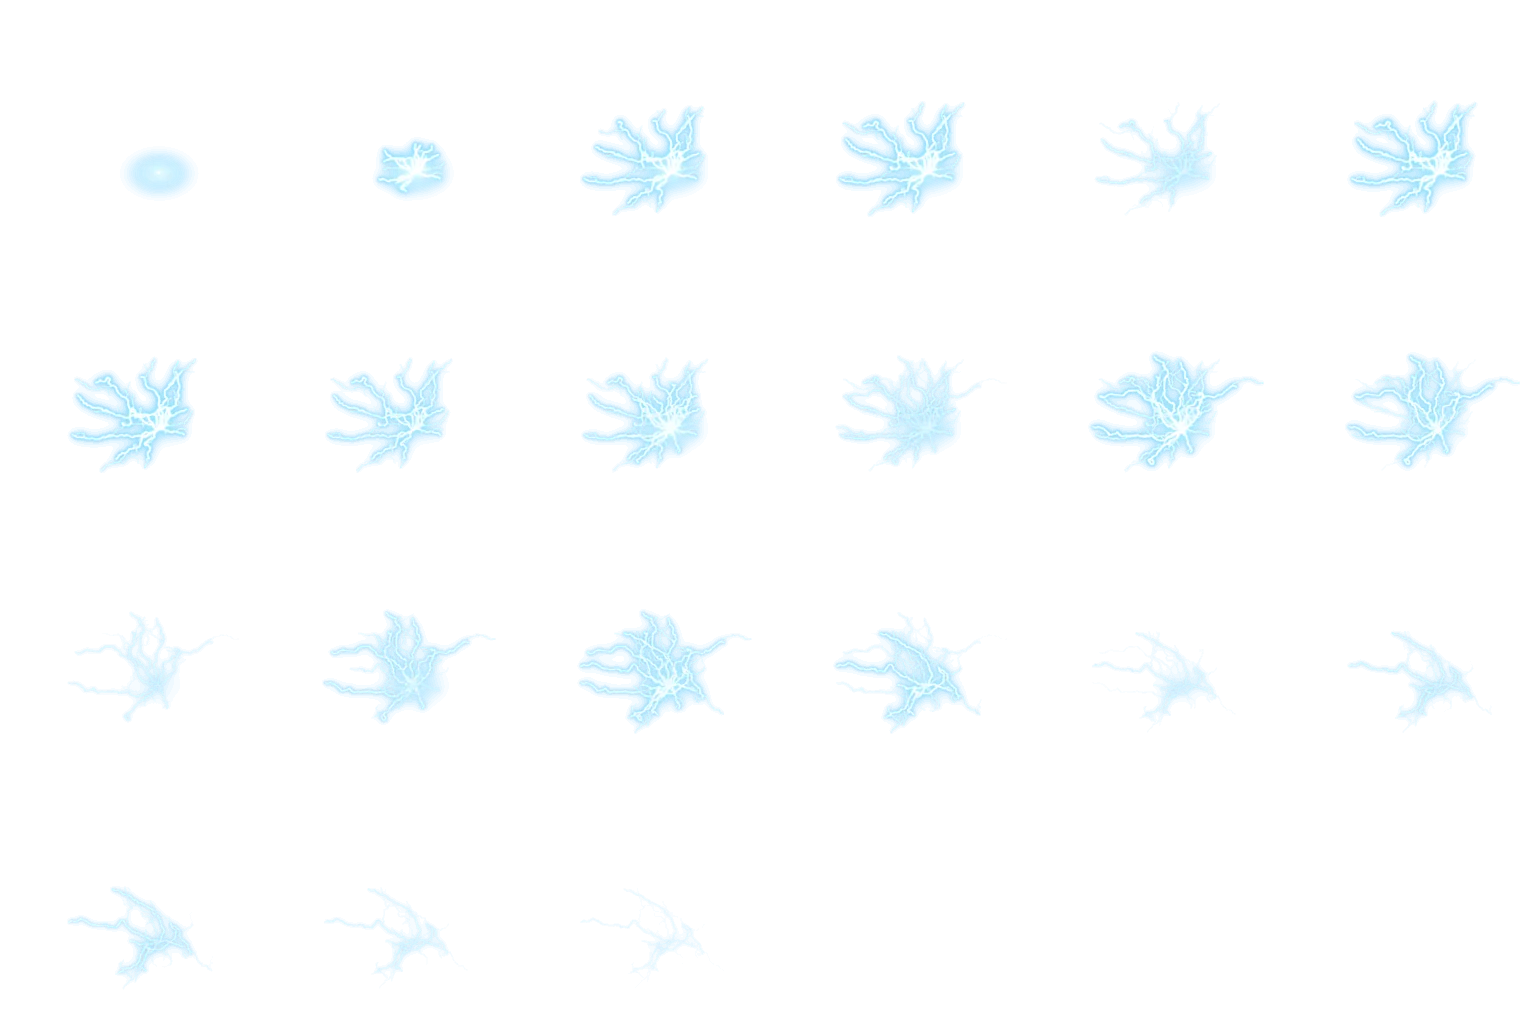
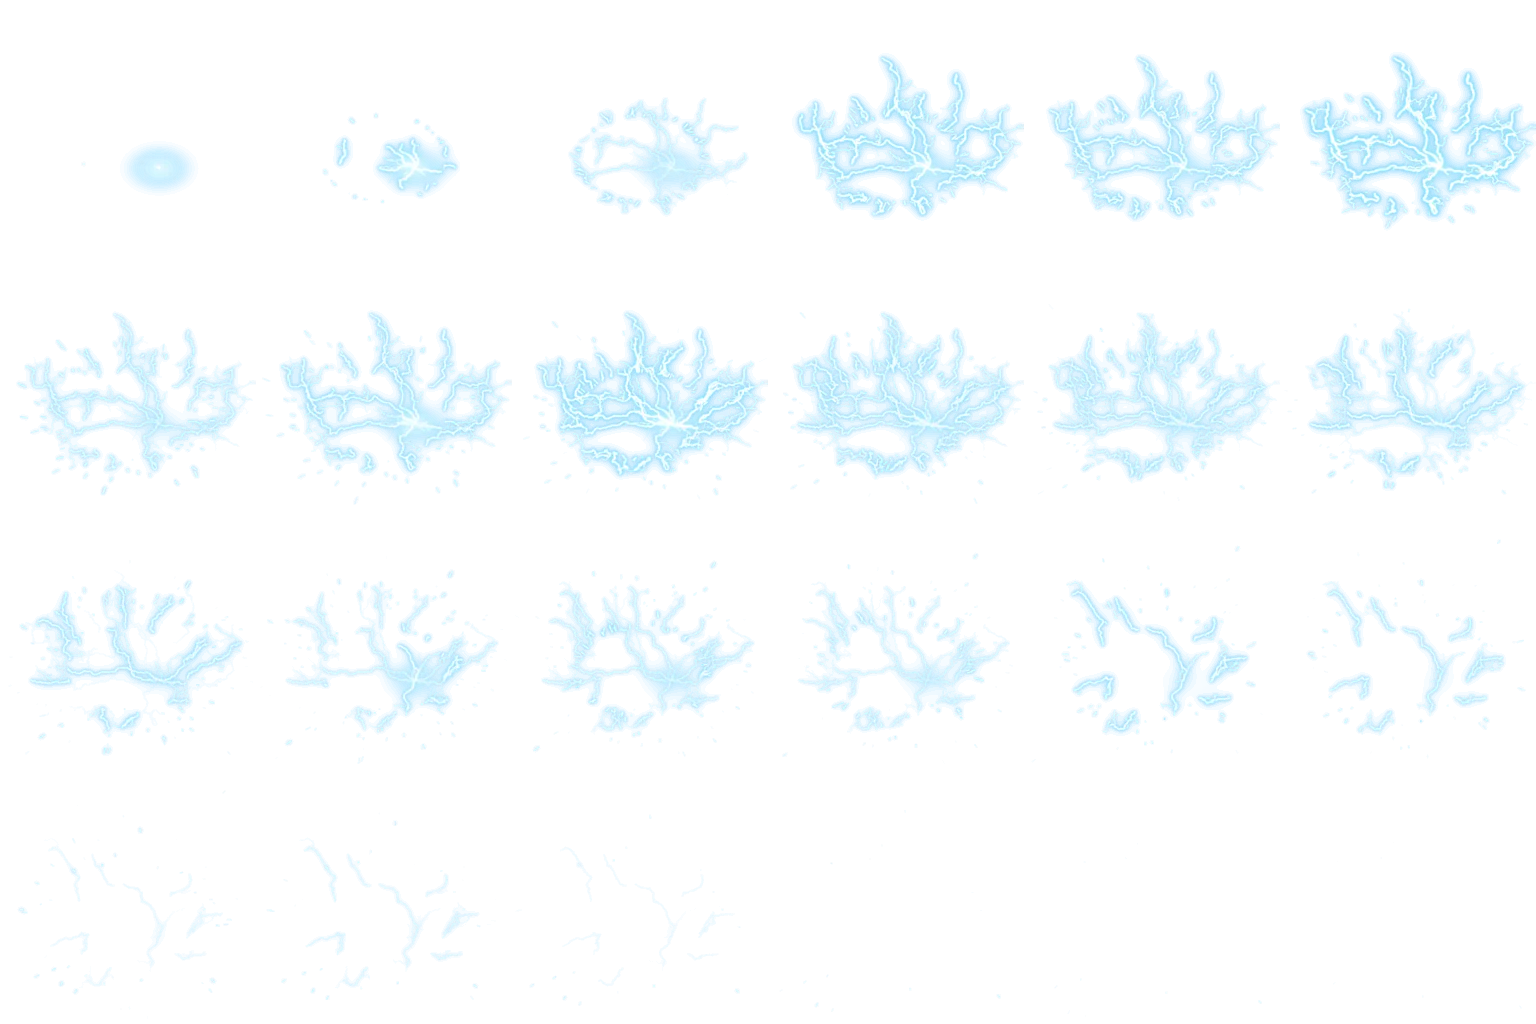
[S15P31A307-379] feat: 심벌 연속 그림을 사방으로 튀는 모양으로 다시 그림

diff --git a/FE/src/domain/hitFx/sheets.ts b/FE/src/domain/hitFx/sheets.ts
@@ -39,15 +39,15 @@ function def(id: FxSheetId, durMs: number, tpow: number, span: number, cy: numbe
 export const SHEET_DEFS: Record<FxSheetId, FxSheetDef> = {
   'water-side-a': def('water-side-a', 640, 1.5, 3.8, 0.66),
   'water-side-b': def('water-side-b', 640, 1.5, 3.8, 0.66),
-  'water-cymbal': def('water-cymbal', 520, 1.5, 4.4, 0.62),
+  'water-cymbal': def('water-cymbal', 520, 1.5, 3.8, 0.62),
   'water-front': def('water-front', 520, 1.5, 3.6, 0.46),
   'fire-side-a': def('fire-side-a', 500, 1.5, 3.6, 0.68),
   'fire-side-b': def('fire-side-b', 500, 1.5, 3.6, 0.68),
-  'fire-cymbal': def('fire-cymbal', 440, 1.5, 4.2, 0.64),
+  'fire-cymbal': def('fire-cymbal', 440, 1.5, 4.2, 0.6),
   'fire-front': def('fire-front', 440, 1.5, 3.6, 0.56),
   'bolt-side-a': def('bolt-side-a', 360, 1.3, 3.6, 0.66),
   'bolt-side-b': def('bolt-side-b', 360, 1.3, 3.6, 0.66),
-  'bolt-cymbal': def('bolt-cymbal', 360, 1.3, 4.2, 0.64),
+  'bolt-cymbal': def('bolt-cymbal', 360, 1.3, 4.2, 0.62),
   'bolt-front': def('bolt-front', 360, 1.3, 4.4, 0.5),
 };
 

diff --git a/FE/src/domain/hitFx/sheets.test.ts b/FE/src/domain/hitFx/sheets.test.ts
@@ -14,7 +14,7 @@ describe('묶음 표', () => {
     }
     expect(SHEET_DEFS['water-side-a']).toMatchObject({ durMs: 640, tpow: 1.5, span: 3.8, cy: 0.66 });
     expect(SHEET_DEFS['bolt-front']).toMatchObject({ durMs: 360, tpow: 1.3, span: 4.4, cy: 0.5 });
-    expect(SHEET_DEFS['fire-cymbal']).toMatchObject({ durMs: 440, tpow: 1.5, span: 4.2, cy: 0.64 });
+    expect(SHEET_DEFS['fire-cymbal']).toMatchObject({ durMs: 440, tpow: 1.5, span: 4.2, cy: 0.6 });
   });
 });
 

diff --git a/FE/scripts/fx-sheets/fire.py b/FE/scripts/fx-sheets/fire.py
@@ -1,9 +1,10 @@
 # 불 테마용 연속 그림 생성기: 헤드에서 불길이 한 번 터져 올라, 혀처럼 갈라지며 떠오르다 식는다.
+# 심벌(burst)은 다르다: 면이 번쩍이고 가장자리에서 짧은 불길과 불똥이 사방으로 튀어 나갔다가 식으며 떨어진다.
 # 화면 위에서 직접 계산한다: 불길의 겉모양(높이·폭·떠오름)에 위로 흐르는 잡음을 더해 혀 모양으로 찢고,
 # 그 값을 색 띠(검정 → 붉은색 → 주황 → 노랑 → 흰색)에 대응시킨다. 검은 바탕의 밝은 그림이고, 저장할 때 build.py가 투명 바탕으로 바꾼다.
 import math, numpy as np
 from scipy import ndimage as ndi
-from common import smooth, frame_times, N, FR, SS
+from common import smooth, splat, frame_times, N, FR, SS
 
 class Noise3:
     def __init__(self, rng, shape=(48, 128, 128), sig=2.6):
@@ -83,6 +84,69 @@ def front(cfg, st, t):
     disc = np.clip(1 - (r / cfg['r0']) ** 2, 0, 1) ** 0.4 * math.exp(-t / cfg['t_flash']) * cfg['flash'] * (0.2 + 1.6 * tc)
     return I + disc
 
+def burst_build(cfg, rng):
+    """심벌용: 가장자리에서 튀는 불똥과 짧은 불길 입자의 처음 위치·속도를 정한다(단위: 헤드 반지름, 초)."""
+    def emit(n, v_out, v_up, k, life, rim, tang, jet):
+        a = rng.uniform(0, 2 * np.pi, n)
+        r = rim[0] + (rim[1] - rim[0]) * np.sqrt(rng.uniform(0, 1, n))
+        # 방향마다 세기가 다르다(굵은 가닥 몇 개가 멀리 나간다)
+        ja = np.zeros(n)
+        for f, ph in zip((3, 5, 9), rng.uniform(0, 2 * np.pi, 3)):
+            ja += np.cos(a * f + ph) / 3
+        j = 1 + jet * ja
+        sp = v_out * j * np.exp(rng.normal(0, 0.45, n)).clip(0.25, 2.6)
+        ta = a + rng.normal(0, tang, n)
+        return dict(x=r * np.cos(a), y=r * np.sin(a), vx=np.cos(ta) * sp, vy=np.sin(ta) * sp,
+                    vz=v_up * j * rng.uniform(0.15, 1.0, n) ** 0.8 * np.exp(rng.normal(0, 0.3, n)),
+                    k=rng.uniform(k[0], k[1], n), life=rng.uniform(life[0], life[1], n) * cfg['dur'],
+                    t0=rng.uniform(0, 1, n) ** 2 * cfg['t_emit'], w=rng.uniform(0.35, 1.0, n) ** 1.5, a=a)
+    return dict(sparks=emit(cfg['sparks'], cfg['sp_out'], cfg['sp_up'], cfg['sp_k'], cfg['sp_life'], (0.55, 1.0), 0.35, 0.45),
+                puff=emit(cfg['puffs'], cfg['pf_out'], cfg['pf_up'], cfg['pf_k'], cfg['pf_life'], (0.8, 1.0), 0.22, 0.75))
+
+def burst_pos(p, t, g):
+    age = np.clip(t - p['t0'], 0, None)
+    D = (1 - np.exp(-p['k'] * age)) / p['k']
+    return p['x'] + p['vx'] * D, p['y'] + p['vy'] * D, (p['vz'] + g / p['k']) * D - g * age / p['k'], age
+
+def burst_proj(cfg, x, y, z):
+    px = N / cfg['span']
+    se, ce = math.sin(math.radians(cfg['elev'])), math.cos(math.radians(cfg['elev']))
+    return N / 2 + x * px, N * cfg['cy'] + y * se * px - z * ce * px
+
+def burst(cfg, st, t):
+    X, Y = st['X'], st['Y']; nz = st['nz']; e = math.sin(math.radians(cfg['elev']))
+    # 짧은 불길: 가장자리에서 바깥으로 뿜어 나와 금방 느려지고 위로 뜨며 꺼진다. 밀도를 흐려 잡음으로 찢는다
+    p = st['burst']['puff']
+    x, y, z, age = burst_pos(p, t, -cfg['pf_buoy'])
+    heat = np.clip(1 - age / p['life'], 0, 1)
+    w = p['w'] * heat ** 1.2 * (age > 0)
+    sx, sy = burst_proj(cfg, x, y, z)
+    dens = ndi.gaussian_filter(splat(sx, sy, w), cfg['pf_sig']) * cfg['pf_gain']
+    turb = nz.fbm(X * cfg['fx'], (Y - cfg['flow'] * t) * cfg['fy'], t * cfg['ft'])
+    flame = np.clip(dens + (turb - 0.5) * cfg['tear'] * smooth(0.0, 0.5, dens), 0, None) ** cfg['gamma']
+    # 불똥: 속도 방향으로 늘어난 짧은 줄. 식으면서 흰 노랑 → 주황 → 붉은색으로 어두워진다
+    q = st['burst']['sparks']
+    x, y, z, age = burst_pos(q, t, cfg['sp_grav'])
+    heat = np.clip(1 - age / q['life'], 0, 1)
+    # 심벌 면 아래로 내려간 것은 면 안쪽이면 지운다(면에 가려진다)
+    hide = ((x * x + y * y) < 1.0) & (z < -0.02)
+    w = q['w'] * heat ** cfg['sp_cool'] * (age > 0) * (~hide)
+    x1, y1, z1, _ = burst_pos(q, t - cfg['sp_expo'], cfg['sp_grav'])
+    sx0, sy0 = burst_proj(cfg, x, y, z); sx1, sy1 = burst_proj(cfg, x1, y1, z1)
+    # 그림 가장자리에서 잘려 보이지 않게 테두리 근처는 흐려 없앤다
+    edge = np.minimum(np.minimum(sx0, N - sx0), np.minimum(sy0, N - sy0)) / N
+    w = w * smooth(0.0, 0.07, edge)
+    S = np.zeros((N, N)); ns = 22
+    for i in range(ns):
+        f = i / (ns - 1)
+        S += splat(sx0 + (sx1 - sx0) * f, sy0 + (sy1 - sy0) * f, w * (1 - 0.7 * f) / ns * 2.4)
+    spark = ndi.gaussian_filter(S, cfg['sp_sig']) * cfg['sp_gain'] + ndi.gaussian_filter(S, cfg['sp_sig'] * 3.2) * cfg['sp_gain'] * 0.9
+    # 불이 붙는 순간 가장자리가 고리 모양으로 번쩍인다(면 가운데를 덩어리로 덮지 않는다)
+    r = np.sqrt(X * X + (Y / e) ** 2)
+    ring = np.exp(-((r - 0.93) / 0.11) ** 2) + 0.12 * np.clip(1 - r, 0, 1) ** 0.5
+    disc = ring * math.exp(-t / cfg['t_flash']) * cfg['flash'] * (0.7 + 0.6 * turb)
+    return flame * cfg['gain'] + spark + disc
+
 def shade(cfg, I):
     I = ndi.gaussian_filter(I, 1.0)
     rgb = ramp(I)
@@ -95,7 +159,10 @@ def shade(cfg, I):
 DRUM = dict(view='side', e=0.70, thin=0.2, H=1.05, rise=1.2, t_grow=0.045, W0=1.06, W1=0.8, shape_p=2.6, shape_q=0.55, jet_f=5.0,
     sway=0.10, lift=4.6, t_lift=0.14, flow=6.0, fx=24.0, fy=11.0, ft=30.0, body=1.0, tear=1.45, gamma=1.3, gain=2.0,
     t_cool=0.16, t_flash=0.035, flash=1.0, bloom=0.5, expo=1.5, frames=36, dur=0.50, tpow=1.5, span=3.6, cy=0.68)
-CYMBAL = dict(DRUM, edge_mode=True, jet_f=9.0, H=0.6, rise=0.9, W0=1.1, W1=1.0, lift=4.2, t_lift=0.10, gain=2.0, dur=0.44, span=4.2, cy=0.64)
+# 심벌: 불길이 얹혀 타지 않고 가장자리에서 사방으로 튄다(짧은 불길 puff + 불똥 spark)
+CYMBAL = dict(DRUM, view='burst', elev=44, sparks=340, sp_out=8.0, sp_up=7.0, sp_k=(3.0, 6.0), sp_life=(0.6, 1.0), sp_grav=30.0, sp_expo=0.02,
+    sp_cool=0.75, sp_sig=1.5, sp_gain=110.0, puffs=26000, pf_out=10.0, pf_up=5.0, pf_k=(5.0, 9.0), pf_life=(0.25, 0.6), pf_buoy=9.0, pf_sig=3.0, pf_gain=0.6,
+    t_emit=0.03, tear=0.5, gamma=1.25, gain=1.5, flow=3.0, fx=20.0, fy=14.0, ft=30.0, flash=1.5, t_flash=0.028, bloom=0.45, dur=0.44, span=4.2, cy=0.60)
 FRONT = dict(DRUM, view='front', r0=0.9, H=0.30, rise=0.55, side=0.35, jet_f=1.0, lift=0.9, t_lift=0.12, flow=3.0, fx=22.0, fy=26.0,
     tear=1.5, gain=1.7, gamma=1.4, flash=1.1, t_flash=0.05, t_cool=0.12, dur=0.44, span=3.6, cy=0.56)
 CFGS = dict(side=DRUM, cymbal=CYMBAL, front=FRONT)
@@ -103,10 +170,13 @@ CFGS = dict(side=DRUM, cymbal=CYMBAL, front=FRONT)
 def build(cfg, seed):
     rng = np.random.default_rng(seed)
     X, Y = grid(cfg)
-    return dict(X=X, Y=Y, nz=Noise3(rng), ph=rng.uniform(0, 100, 4))
+    st = dict(X=X, Y=Y, nz=Noise3(rng), ph=rng.uniform(0, 100, 4))
+    if cfg['view'] == 'burst':
+        st['burst'] = burst_build(cfg, rng)
+    return st
 
 def frame(cfg, st, t):
-    return shade(cfg, side(cfg, st, t) if cfg['view'] == 'side' else front(cfg, st, t))
+    return shade(cfg, {'side': side, 'front': front, 'burst': burst}[cfg['view']](cfg, st, t))
 
 
 def frames(cfg, seed):

diff --git a/FE/scripts/fx-sheets/bolt.py b/FE/scripts/fx-sheets/bolt.py
@@ -1,4 +1,5 @@
 # 번개 테마용 연속 그림 생성기: 스틱 자리에서 방전이 헤드 면을 타고 가장자리로 달리고, 일부는 공중으로 튄다.
+# 심벌은 가장자리에서 바깥 공중으로 뻗는 방전(rimout)과 튀어 나가는 불꽃(sparks)을 더해 사방으로 튀는 모양이다.
 # 가지 치는 꺾은선을 3차원으로 만들고(중점 변위), 세 번의 방전이 같은 길을 조금씩 달리 타며 깜빡이게 한다.
 # 선을 그린 뒤 흐림으로 얇은 흰 중심과 푸른 빛무리를 만든다. 검은 바탕의 밝은 그림이고, 저장할 때 build.py가 투명 바탕으로 바꾼다.
 import math, numpy as np
@@ -50,9 +51,27 @@ def build(cfg, seed):
             b = rng.uniform(0, 2 * np.pi); out = rng.uniform(0.2, cfg['air_out'])
             end = start + np.array([math.cos(b) * out, math.sin(b) * out, rng.uniform(cfg['air_h'] * 0.45, cfg['air_h'])])
             paths += tree(rng, start, end, cfg, 0, 0.9)
+        nrim = cfg.get('rimout', 0) if si == 0 else max(0, cfg.get('rimout', 0) - 3 * si)
+        b0 = rng.uniform(0, 2 * np.pi)
+        for j in range(nrim):  # 가장자리에서 바깥 공중으로 뻗는 방전(심벌)
+            a = b0 + (j + rng.uniform(-0.35, 0.35)) * 2 * np.pi / nrim
+            start = np.array([math.cos(a) * cfg['rim'], math.sin(a) * cfg['rim'], 0.0])
+            b = a + rng.normal(0, 0.3); out = rng.uniform(0.35, 1.0) * cfg['rim_len']
+            end = start + np.array([math.cos(b) * out, math.sin(b) * out, rng.uniform(0.1, 1.0) * cfg['rim_h']])
+            # 스틱에서 먼 가장자리일수록 늦게 붙도록 시작 거리를 준다
+            paths += tree(rng, start, end, cfg, 0, 0.95, float(np.linalg.norm(start - stick)))
         strokes.append(dict(paths=paths, t0=cfg['times'][si] + (rng.uniform(-0.008, 0.008) if si else 0), amp=cfg['amps'][si],
                             fl=rng.uniform(0, 100)))
-    return dict(strokes=strokes, rng=rng, stick=stick)
+    st = dict(strokes=strokes, rng=rng, stick=stick)
+    n = cfg.get('sparks', 0)
+    if n:  # 가장자리에서 튀어 나가는 불꽃: 방전마다 한 무리씩
+        a = rng.uniform(0, 2 * np.pi, n); sp = cfg['sp_out'] * np.exp(rng.normal(0, 0.45, n)).clip(0.3, 2.4)
+        ta = a + rng.normal(0, 0.3, n); si = rng.choice(len(strokes), n, p=np.array(cfg['amps']) / sum(cfg['amps']))
+        st['sparks'] = dict(x=np.cos(a) * cfg['rim'], y=np.sin(a) * cfg['rim'], vx=np.cos(ta) * sp, vy=np.sin(ta) * sp,
+                            vz=cfg['sp_up'] * rng.uniform(0.1, 1.0, n), k=rng.uniform(3.0, 6.5, n),
+                            t0=np.array([strokes[i]['t0'] for i in si]) + rng.uniform(0.0, 0.02, n),
+                            life=rng.uniform(0.35, 1.0, n) * cfg['sp_life'], w=rng.uniform(0.4, 1.0, n))
+    return st
 
 def proj(cfg, P):
     px = N / cfg['span']; x, y, z = P[:, 0], P[:, 1], P[:, 2]
@@ -77,6 +96,18 @@ def frame(cfg, st, t):
                 v = env * inten
                 if v < 0.02: continue
                 dr.line([(sx[i], sy[i]), (sx[i + 1], sy[i + 1])], fill=float(v), width=4 if inten > 0.7 else (2 if inten > 0.4 else 1))
+    q = st.get('sparks')
+    if q:
+        def pos(tt):
+            age = np.clip(tt - q['t0'], 0, None); D = (1 - np.exp(-q['k'] * age)) / q['k']
+            P = np.stack([q['x'] + q['vx'] * D, q['y'] + q['vy'] * D, (q['vz'] + cfg['sp_grav'] / q['k']) * D - cfg['sp_grav'] * age / q['k']], 1)
+            return proj(cfg, P), age
+        (ax, ay), age = pos(t); (bx, by), _ = pos(t - cfg['sp_expo'])
+        heat = np.clip(1 - age / q['life'], 0, 1)
+        edge = np.minimum(np.minimum(ax, N - ax), np.minimum(ay, N - ay)) / N
+        v = q['w'] * heat ** 0.8 * (age > 0) * np.clip(edge / 0.07, 0, 1) * cfg['sp_amp']
+        for i in np.nonzero(v > 0.03)[0]:
+            dr.line([(ax[i], ay[i]), (bx[i], by[i])], fill=float(v[i]), width=2)
     c = np.array(core)
     thin = ndi.gaussian_filter(c, 1.1)
     glow = ndi.gaussian_filter(c, 5.0) * cfg['glow'] + ndi.gaussian_filter(c, 16.0) * cfg['halo']
@@ -96,7 +127,10 @@ DRUM = dict(stick=[0.08, 0.05], strokes=3, times=[0.0, 0.085, 0.19], amps=[1.0, 
     surf=6, air=4, rim=1.0, air_h=1.5, air_out=0.9, disp=0.135, depth=6, levels=2, branch=2.0, fork=0.7, dim=0.5,
     core=3.4, glow=3.4, halo=3.0, flash=1.1, tint=[0.30, 0.74, 1.0], expo=1.7,
     frames=36, dur=0.36, tpow=1.3, span=3.6, elev=44, cy=0.66)
-CYMBAL = dict(DRUM, stick=[0.5, 0.25], surf=8, air=4, air_h=1.0, air_out=1.6, elev=44, dur=0.36, times=[0.0, 0.075, 0.165], span=4.2, cy=0.64)
+# 심벌: 면을 타는 방전은 줄이고, 가장자리에서 바깥으로 뻗는 방전과 튀는 불꽃을 더했다
+CYMBAL = dict(DRUM, stick=[0.5, 0.25], surf=5, air=2, air_h=1.0, air_out=0.9, rimout=13, rim_len=0.9, rim_h=0.9,
+    sparks=220, sp_out=8.5, sp_up=6.0, sp_grav=30.0, sp_expo=0.009, sp_life=0.22, sp_amp=1.0,
+    elev=44, dur=0.36, times=[0.0, 0.075, 0.165], span=4.2, cy=0.62)
 FRONT = dict(DRUM, stick=[0.0, 0.05], front=True, persp=0.45, surf=8, air=5, air_h=1.1, air_out=1.2, span=4.4, cy=0.50)
 CFGS = dict(side=DRUM, cymbal=CYMBAL, front=FRONT)
 

diff --git a/FE/scripts/fx-sheets/water.py b/FE/scripts/fx-sheets/water.py
@@ -166,10 +166,11 @@ DRUM = dict(
     frames=36, dur=0.64, tpow=1.5, streak=1.0,
 )
 # 심벌: 얇은 물막이 가장자리에서 가는 물보라로 털려 나간다
-CYMBAL = dict(DRUM, M=90000, holes=420, beads=1100, feat=0.07, stick=[0.5, 0.3], edge_mode=True, modep=1.3,
-    base=0.25, jet=0.9, jetp=2.0, fine=0.3, V=10.5, crown=0.5, crown_r=0.14, crown_w=0.06, crown_out=2.6,
-    spread=3.4, flare=2.2, lat=2.2, elev=44, t1=0.004, t1j=0.03, d1=0.05, t2=0.035, t2j=0.09, d2=0.07,
-    rb=3.1, bead_var=0.45, mist_n=4200, mist_a=3.4, dur=0.52, span=4.4, cy=0.62)
+# 자주 치는 작은 패드라 드럼보다 덜 튀게 한다(솟는 높이·퍼지는 거리를 첫 판의 75%로, 방울·물안개 수도 줄였다)
+CYMBAL = dict(DRUM, M=90000, holes=420, beads=850, feat=0.07, stick=[0.5, 0.3], edge_mode=True, modep=1.3,
+    base=0.25, jet=0.9, jetp=2.0, fine=0.3, V=7.9, crown=0.5, crown_r=0.14, crown_w=0.06, crown_out=1.95,
+    spread=2.55, flare=1.65, lat=1.65, elev=44, t1=0.004, t1j=0.03, d1=0.05, t2=0.035, t2j=0.09, d2=0.07,
+    rb=3.1, bead_var=0.45, mist_n=3200, mist_a=3.4, dur=0.52, span=3.8, cy=0.62)
 # 킥: 정면으로 선 헤드에서 물막이 앞으로 터져 나와 아래로 떨어진다
 KICK = dict(DRUM, M=110000, holes=150, beads=1500, bead_var=0.6, front=True, persp=0.5, elev=90, span=3.6, cy=0.46,
     V=5.0, base=0.35, jet=1.0, crown=0.3, crown_out=1.6, spread=2.6, flare=2.4, lat=2.0, stick=[0.0, 0.1],

diff --git a/FE/scripts/fx-sheets/README.md b/FE/scripts/fx-sheets/README.md
@@ -27,8 +27,8 @@
 | --- | --- |
 | `build.py` | 묶음 id → (테마, 종류, 씨앗) 표와 저장. 384px로 그린 뒤 256px로 줄이고 검은 바탕을 투명으로 바꾼다 |
 | `common.py` | 그림 크기, 잡음, 입자를 그림에 뿌리기, 프레임 시간표 |
-| `water.py` | 물: 물막을 입자 약 14만 개로 두고 막 → 가닥 → 방울 순서로 찢은 뒤 밀도를 임계값으로 잘라 액체로 칠한다 |
-| `fire.py` | 불: 불길의 겉모양에 위로 흐르는 잡음을 더해 혀 모양으로 찢고 열 색 띠에 대응시킨다 |
-| `bolt.py` | 전기: 가지 치는 꺾은선을 3차원으로 만들어 투영하고, 세 번의 방전이 자라고 깜빡이게 한다 |
+| `water.py` | 물: 물막을 입자 약 14만 개로 두고 막 → 가닥 → 방울 순서로 찢은 뒤 밀도를 임계값으로 잘라 액체로 칠한다. 심벌은 드럼보다 덜 튄다(솟는 높이·퍼지는 거리 75%) |
+| `fire.py` | 불: 불길의 겉모양에 위로 흐르는 잡음을 더해 혀 모양으로 찢고 열 색 띠에 대응시킨다. 심벌(`burst`)은 가장자리 고리가 번쩍인 뒤 불똥이 사방으로 튀어 식으며 떨어진다 |
+| `bolt.py` | 전기: 가지 치는 꺾은선을 3차원으로 만들어 투영하고, 세 번의 방전이 자라고 깜빡이게 한다. 심벌은 가장자리에서 바깥으로 뻗는 방전과 튀는 불꽃을 더한다 |
 
 종류는 보는 방향이다. `side`와 `cymbal`은 위에서 44° 각도로 내려다본 드럼과 심벌(실물 킷 큰 그림의 헤드 세로÷가로가 약 0.7이다), `front`는 정면에서 본 원판(킥, 그리고 위에서 본 킷의 모든 패드)이다. 모양은 각 파일 아래쪽의 설정 표(`DRUM`·`CYMBAL`·`KICK`/`FRONT`)와 `build.py`의 씨앗으로 정해진다. 같은 설정·씨앗이면 같은 그림이 나온다.
